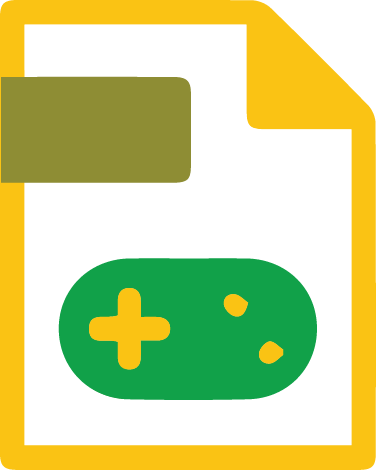
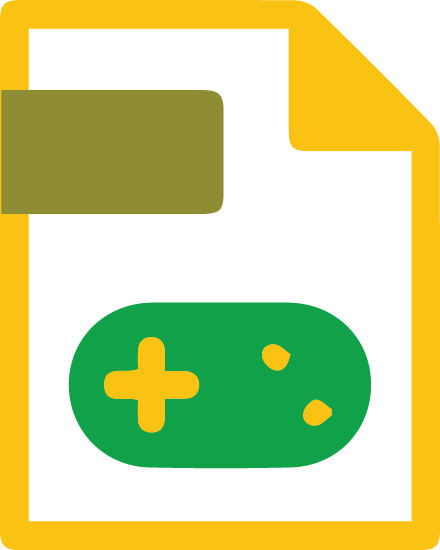
a
a

diff --git a/inicio.html b/inicio.html
@@ -212,10 +212,10 @@
 								<div class="col-md-3 col-sm-3 animated fadeInDown">
 									<div class="service-box-v1 animated slideInLeft">
 										<div class="center">
-											<img class="fa img-responsive img-small" src="imaxes/iconos/icon_inicio_flora.png">
+											<img class="img-responsive img-medium" src="imaxes/iconos/icon_inicio_flora.png">
 											<a href="RedNatura_flora.html">
 												<h2>FLORA</h2>
-												<p>A diversidade de flora nos nosos concellos está ó amparo da Rede Natura 2000</p>
+												<p>A nosa flora ó amparo da Rede Natura 2000</p>
 											</a>
 										</div>
 									</div>
@@ -223,17 +223,17 @@
 								<!-- fauna -->
 								<div class="col-md-3 col-sm-3 animated fadeInDown">
 									<div class="service-box-v1 animated  slideInLeft">
-										<div class="center"><img class="fa img-responsive img-small" src="imaxes/iconos/icon_inicio_fauna.png"></div>
+										<div class="center"><img class="img-responsive img-medium" src="imaxes/iconos/icon_inicio_fauna.png"></div>
 										<a href="RedNatura_fauna.html">
 											<h2>FAUNA</h2>
-											<p>Coñece a fauna que habita no noso territorio ó amparo da Rede Natura 2000 </p>
+											<p>Coñece a fauna que habita no noso territorio</p>
 										</a>
 									</div>
 								</div>
 								<!-- dróns -->
 								<div class="col-md-3 col-sm-3 animated fadeInDown">
 									<div class="service-box-v1 animated  slideInRight">
-										<div class="center"><img class="fa img-responsive img-small" src="imaxes/iconos/icon_inicio_dron.png"></div>
+										<div class="center"><img class="img-responsive img-medium" src="imaxes/iconos/icon_inicio_dron.png"></div>
 										<h2>DRÓNS</h2>
 										<p>Visita terras de Iria a vista de drón. Información sobre estes UAVs</p>
 									</div>
@@ -241,10 +241,10 @@
 								<!-- deporte -->
 								<div class="col-md-3 col-sm-3 animated fadeInDown">
 									<div class="service-box-v1  animated  slideInRight">
-										<div class="center"><img class="fa img-responsive img-small" src="imaxes/iconos/icon_inicio_deporte.png"></div>
+										<div class="center"><img class="img-responsive img-medium" src="imaxes/iconos/icon_inicio_deporte.png"></div>
 										<a href="deporte.html">
 											<h2>DEPORTE</h2>
-											<p>Aquí atoparás a localización das instalacións deportivas dos tres concellos</p>
+											<p>Atopa informacion das instalacións deportivas.</p>
 										</a>
 									</div>
 								</div>
@@ -256,7 +256,7 @@
 								<!-- rutas -->
 								<div class="col-md-3 col-sm-3 animated fadeInDown">
 									<div class="service-box-v1  animated  slideInLeft">
-										<div class="center"><img class="fa img-responsive img-small" src="imaxes/iconos/icon_inicio_rutas.png"></div>
+										<div class="center"><img class="img-responsive img-medium" src="imaxes/iconos/icon_inicio_rutas.png"></div>
 										<h2>RUTAS</h2>
 										<p>Roteiros a pe que podemos desfrutar nos nosos concellos</p>
 									</div>
@@ -264,7 +264,7 @@
 								<!-- bicis -->
 								<div class="col-md-3 col-sm-3 animated fadeInDown">
 									<div class="service-box-v1  animated  slideInLeft">
-										<div class="center"><img class="fa img-responsive img-small" src="imaxes/iconos/icon_inicio_rutas.png"></div>
+										<div class="center"><img class="img-responsive img-medium" src="imaxes/iconos/icon_inicio_rutas.png"></div>
 										<h2>Bicicleta</h2>
 										<p>Roteiros en bici que podemos desfrutar nos nosos concellos</p>
 									</div>
@@ -273,17 +273,17 @@
 								<!-- lecer -->
 								<div class="col-md-3 col-sm-3 animated fadeInDown">
 									<div class="service-box-v1  animated  slideInRight">
-										<div class="center"><img class="fa img-responsive img-small" src="imaxes/iconos/icon_inicio_lecer.png"></div>
+										<div class="center"><img class="img-responsive img-medium" src="imaxes/iconos/icon_inicio_lecer.png"></div>
 										<h2>LECER</h2>
-										<p>Atopa festas, festivais, e máis nas terras de Iria</p>
+										<p>Atopa festas, festivais, e moito máis nas terras de Iria</p>
 									</div>
 								</div>
 								<!-- actividades -->
 								<div class="col-md-3 col-sm-3 animated fadeInDown">
 									<div class="service-box-v1 animated  slideInRight">
-										<div class="center"><img class="fa img-responsive img-small" src="imaxes/iconos/icon_inicio_actividad.png"></div>
+										<div class="center"><img class="img-responsive img-medium" src="imaxes/iconos/icon_inicio_actividad.png"></div>
 										<h2>ACTIVIDADES</h2>
-										<p>Xogos e información descargable en formato pdf</p>
+										<p>Xogos e arquivos descargables en formato pdf</p>
 									</div>
 								</div>
 

diff --git a/assets/corporate/css/style.css b/assets/corporate/css/style.css
@@ -2866,8 +2866,19 @@ Demo Utils
  /* Service Box v1 */
  .service-box-v1,
  .service-box-v2 {
+ 	/*
  	text-align: center;
  	padding: 15px;
+ 	box-shadow: 1px 1px 3px #7C858E;
+ 	border-radius: .7em !important;
+*/
+ }
+
+ .service-box-v1 {
+ 	text-align: center;
+ 	padding: .5em;
+ 	width: auto;
+ 	height: 30vh;
  	box-shadow: 1px 1px 3px #7C858E;
  	border-radius: .7em !important;
  }

diff --git a/assets/corporate/css/custom.css b/assets/corporate/css/custom.css
@@ -128,6 +128,10 @@ gris claro {
  	width: 15%;
  }
 
+ .img-medium {
+ 	width: 20%;
+ }
+
  .img-shadow {
  	/* 	filter: drop-shadow(3px 3px 3px #7C858E);*/
  }
